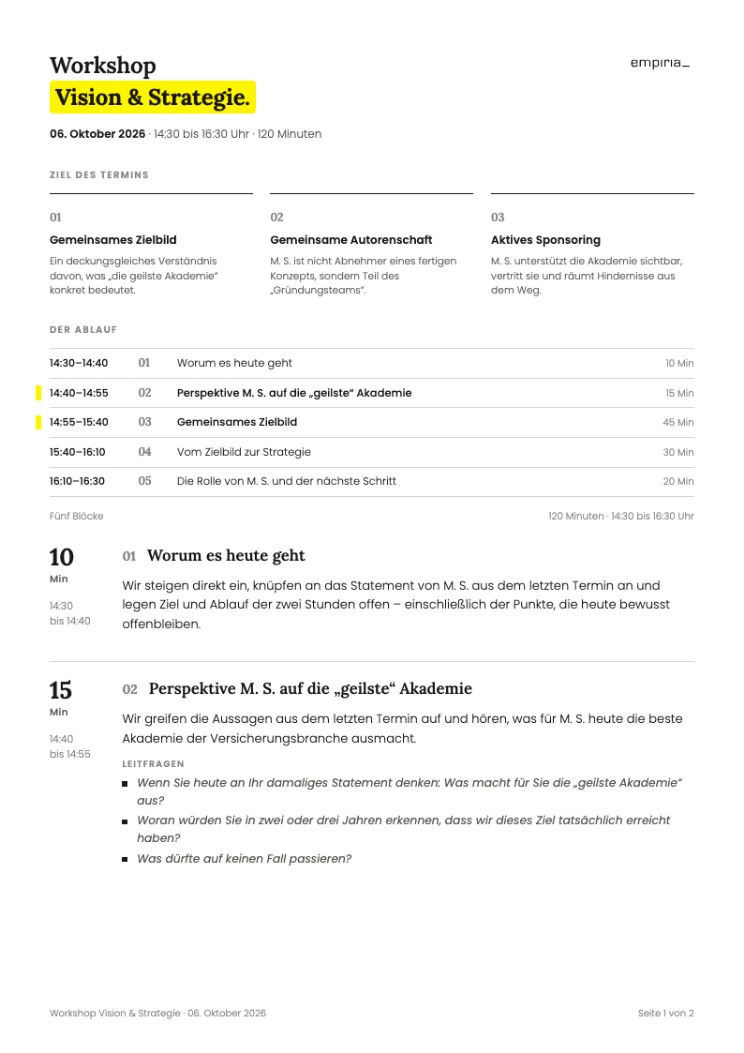
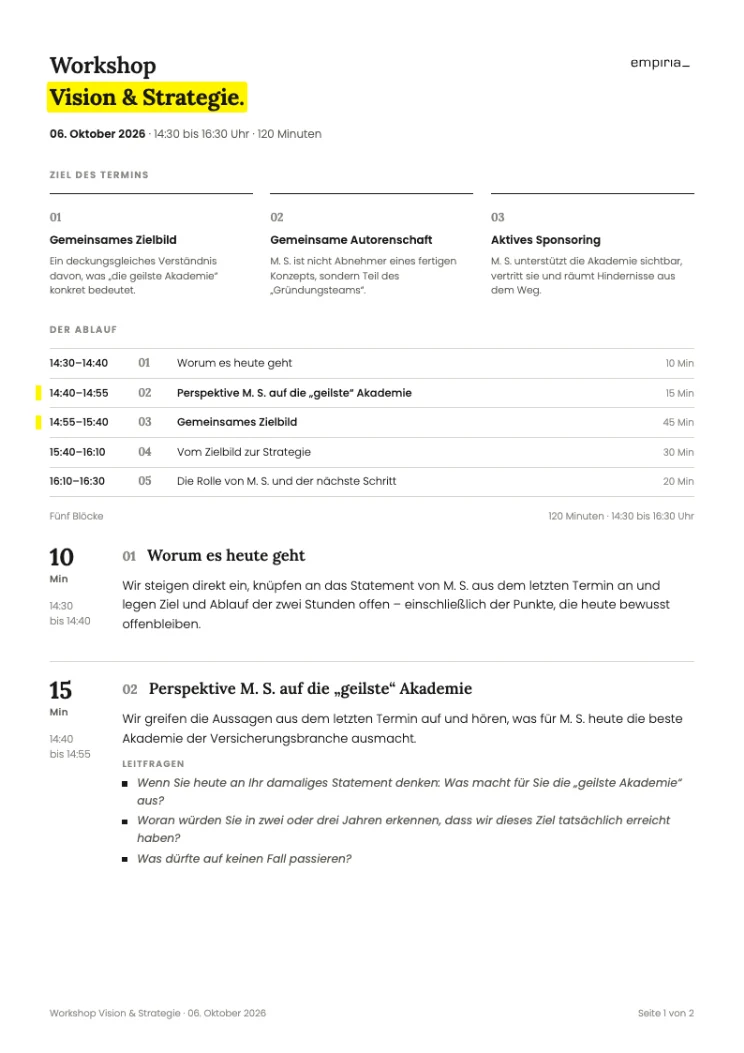
PDFs: gelbe Hervorhebung verschiebt den Text nicht mehr
Das Polster des gelben Kastens schob das hervorgehobene Wort nach
rechts - das V von Vision stand nicht unter dem W von Workshop, die
Headline verlor ihre linke Kante. Jetzt gleicht ein gleich grosser
negativer Aussenabstand das Polster aus: Der Kasten ragt links ueber,
der Text flucht.

Die Website macht das in styles.css seit jeher richtig
(padding: 0 .1em; margin: 0 -.1em). In beiden PDF-Systemen fehlte es -
agenda_pdf.py und pdf-seiten/lib.py sind jetzt gleichgezogen.

Changed region(s): [[0.0618, 0.0608, 0.3401, 0.1216]]

diff --git a/werkzeuge/pdf-agenda/agenda_pdf.py b/werkzeuge/pdf-agenda/agenda_pdf.py
@@ -79,8 +79,14 @@ b, strong { font-weight: 600; }
    Kasten - sonst schneidet er die Unterlaengen der Zeile darueber ab. */
 h1 { font-family: var(--serif); font-weight: 600; font-size: 26pt;
      line-height: 1.42; letter-spacing: -.01em; max-width: 150mm; }
+/* Das Polster des gelben Kastens wird durch einen gleich grossen
+   negativen Aussenabstand ausgeglichen. Sonst rueckt das hervorgehobene
+   Wort nach rechts und flucht nicht mehr mit der Zeile darueber - der
+   Kasten darf links ueberstehen, der Text nicht. Genau so loest es die
+   Website in styles.css. */
 .hl { display: inline; color: var(--ink); font-weight: 700;
-      background: var(--hl); border-radius: 4px; padding: .5mm 1.6mm;
+      background: var(--hl); border-radius: .14em;
+      padding: .06em .12em; margin-inline: -.12em;
       -webkit-box-decoration-break: clone; box-decoration-break: clone; }
 .unterzeile { margin-top: 5mm; font-size: 10pt; color: var(--g70); }
 .unterzeile b { font-weight: 600; color: var(--ink); }
@@ -151,7 +157,7 @@ h2 { font-family: var(--serif); font-weight: 600; font-size: 14pt;
              color: var(--g50); }
 .bkopf h3 { font-family: var(--serif); font-weight: 600; font-size: 14pt;
             line-height: 1.3; }
-.block--kern .bkopf h3 .hl { padding: .4mm 1.4mm; }
+
 
 .aufmacher { font-size: 10.5pt; line-height: 1.58; color: var(--ink);
              margin-bottom: 3mm; }

diff --git a/werkzeuge/pdf-seiten/lib.py b/werkzeuge/pdf-seiten/lib.py
@@ -135,7 +135,9 @@ body { font-family: var(--sans); font-weight: 300; color: var(--ink); -webkit-pr
 b, strong { font-weight: 600; }
 .page { width: 210mm; height: 297mm; position: relative; overflow: hidden; page-break-after: always; padding: 20mm 22mm 18mm; background: #fff; }
 .page:last-child { page-break-after: auto; }
-.hl { position: relative; z-index: 0; display: inline; color: var(--hl-fg); font-weight: 700; -webkit-box-decoration-break: clone; box-decoration-break: clone; background: var(--hl-bg); border-radius: 4px; padding: 0 .08em; white-space: nowrap; }
+.hl { position: relative; z-index: 0; display: inline; color: var(--hl-fg); font-weight: 700; -webkit-box-decoration-break: clone; box-decoration-break: clone; background: var(--hl-bg); border-radius: 4px; padding: 0 .08em;
+      /* gleicht das Polster aus, damit das Wort in der Zeile flucht */
+      margin-inline: -.08em; white-space: nowrap; }
 .head { display:flex; justify-content: space-between; align-items:center; margin-bottom: 15mm; }
 .head img { height: 6mm; }
 .page-no { font-size: 6.6pt; color: var(--g50); font-weight: 500; }
